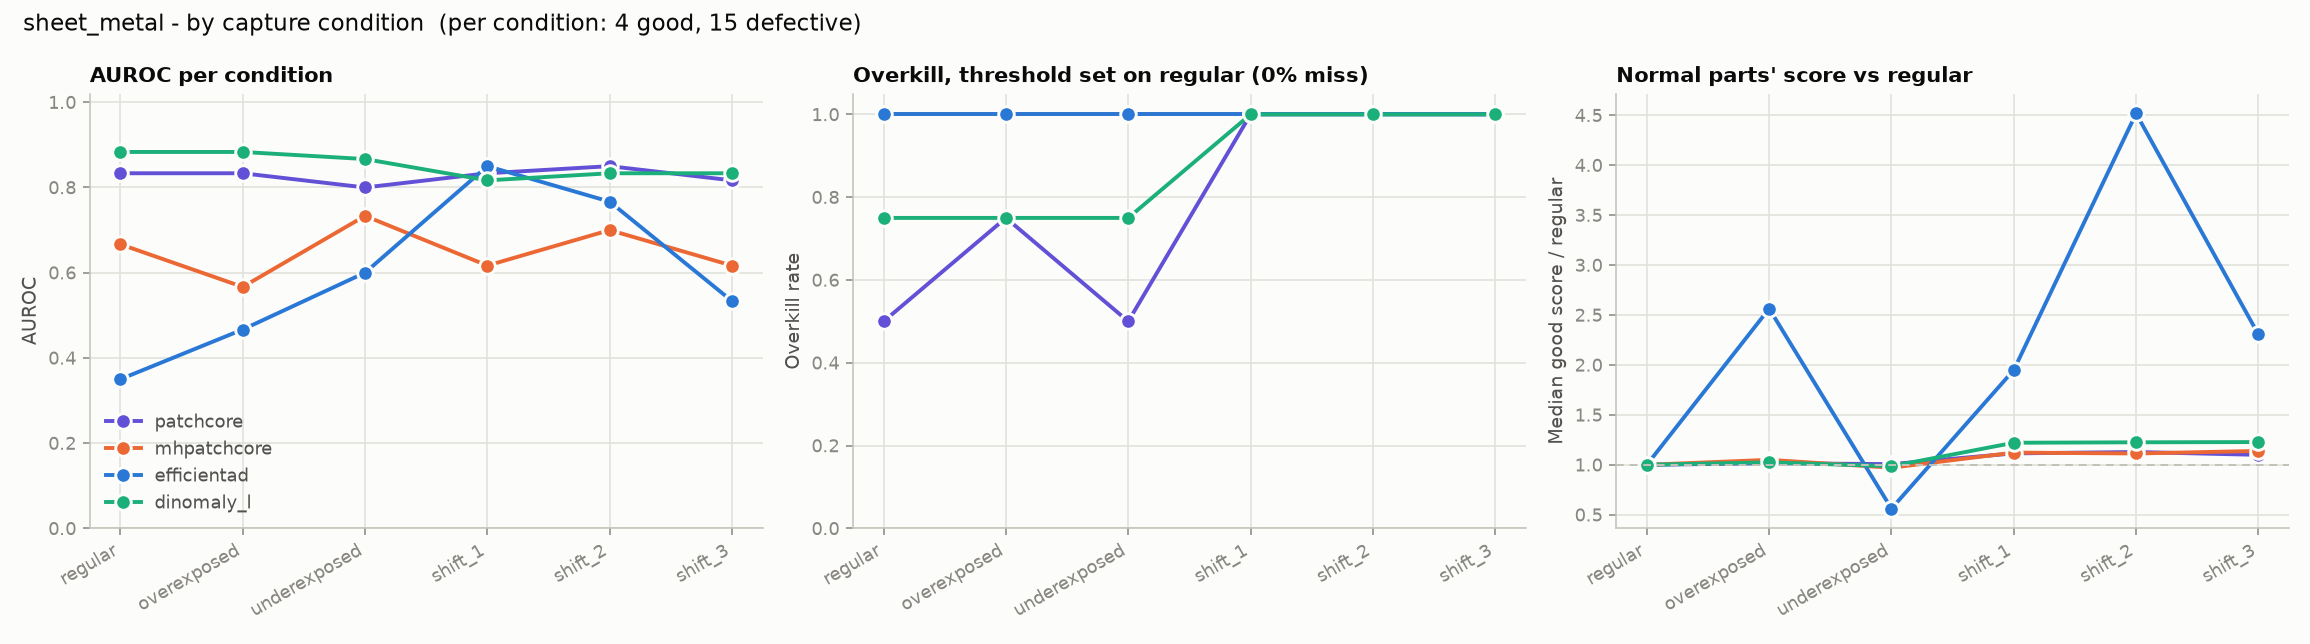
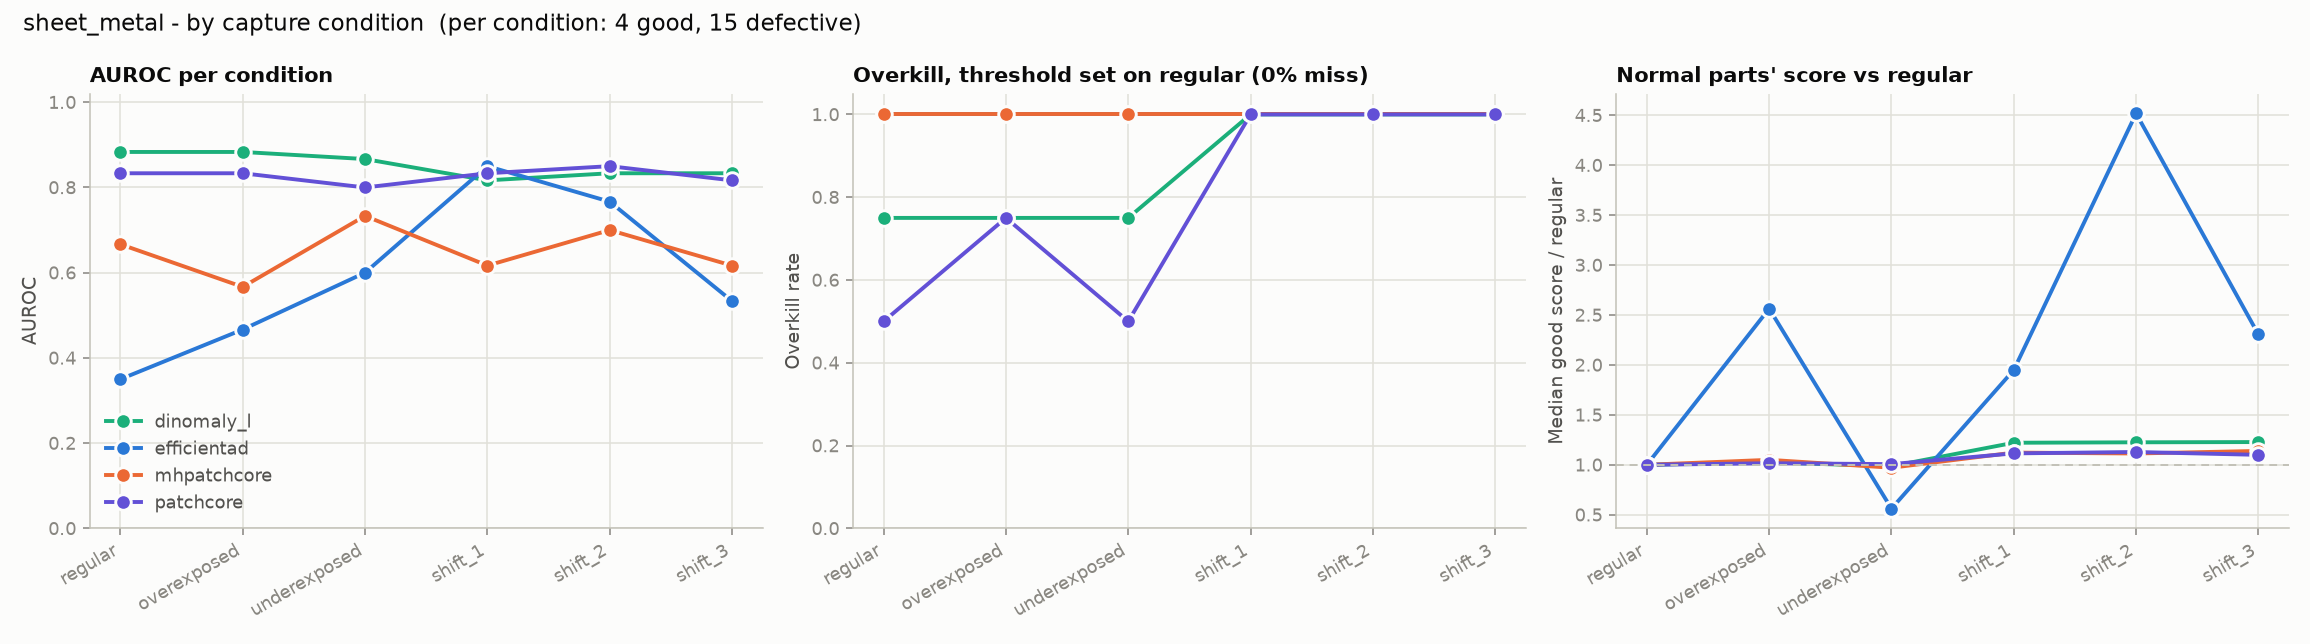
Report 8-category results for PatchCore, MH-PatchCore and Dinomaly-L
evaluate.py also draws an all-category summary figure. README and experiment_log gain the
per-category table, the per-condition findings across categories, and the caveats (image-level
split is optimistic because test images repeat 15 defective parts; single seed).

diff --git a/src/industrial_inspection/plots.py b/src/industrial_inspection/plots.py
@@ -227,3 +227,32 @@ def data_profile_figure(table: pd.DataFrame, defects: pd.DataFrame, out: Path | 
 # Fixed category -> slot, so a category keeps its colour across figures.
 CATEGORY_SLOT = {c: i for i, c in enumerate(
     ["can", "fabric", "fruit_jelly", "rice", "sheet_metal", "vial", "wallplugs", "walnuts"])}
+
+
+def summary_figure(report: pd.DataFrame, out: Path | None = None) -> Path:
+    """AUROC and overkill at a 0 % miss budget for every (category, model), one row per category."""
+    r0 = report[report.miss_budget == 0.0]
+    order = r0.groupby("category").auroc.mean().sort_values().index.tolist()
+    models = [m for m in MODEL_SLOT if m in set(r0.model)]
+    fig, (a1, a2) = _figure(2, 14, 0.55 * len(order) + 2.2)
+    offsets = np.linspace(-0.22, 0.22, len(models)) if len(models) > 1 else [0.0]
+    for ax, col, xlabel, title, ref in (
+        (a1, "auroc", "AUROC", "AUROC per category", 0.5),
+        (a2, "heldout_overkill", "Overkill rate at 0 % miss (held-out)", "Overkill per category", None),
+    ):
+        for off, model in zip(offsets, models):
+            rep = r0[r0.model == model].set_index("category").reindex(order)
+            ax.scatter(rep[col], np.arange(len(order)) + off, s=60, color=model_color(model), edgecolors=SURFACE,
+                       linewidths=1.2, label=model, zorder=3)
+        if ref is not None:
+            ax.axvline(ref, color=AXIS, linewidth=1, linestyle=(0, (4, 3)))
+            ax.annotate("chance", (ref, len(order) - 0.5), xytext=(4, 0), textcoords="offset points", color=MUTED,
+                        fontsize=9, va="center")
+        ax.set_yticks(range(len(order)), order)
+        ax.set_ylim(-0.6, len(order) - 0.4)
+        _style(ax, xlabel, "", title)
+    a1.set_xlim(0.35, 1.0)
+    a2.set_xlim(0.0, 1.05)
+    a1.legend(frameon=False, fontsize=9, loc="lower right", labelcolor=INK2)
+    fig.suptitle("MVTec AD 2 test_public - all categories", color=INK, fontsize=12, x=0.01, ha="left")
+    return _save(fig, out or Path("results/figures") / "summary__all_categories.png")

diff --git a/scripts/evaluate.py b/scripts/evaluate.py
@@ -19,7 +19,7 @@ import pandas as pd
 from sklearn.metrics import roc_auc_score
 
 from industrial_inspection.metrics import held_out_operating_point
-from industrial_inspection.plots import comparison_figure, test_figure, training_figure
+from industrial_inspection.plots import comparison_figure, summary_figure, test_figure, training_figure
 
 
 def main() -> None:
@@ -68,6 +68,8 @@ def main() -> None:
     report = pd.DataFrame(rows)
     args.out.parent.mkdir(parents=True, exist_ok=True)
     report.to_csv(args.out, index=False)
+    if report.category.nunique() > 1:
+        print("figure:", summary_figure(report))
     with pd.option_context("display.width", 200, "display.float_format", "{:.3f}".format):
         print(report.to_string(index=False))
 

diff --git a/README.md b/README.md
@@ -102,6 +102,46 @@ uv run python scripts/evaluate.py results/scores/*.csv
 - **EfficientAD는 점수 자체가 조건에 따라 크게 움직입니다.** 정상 점수가 overexposed에서 2.6배, underexposed에서 0.56배, shift_2에서 4.5배가 됩니다. 한 조건에서 정한 임계값을 다른 조건에 쓸 수 없는 수준입니다. 한 조건 안에서 보더라도 AUROC가 0.35(`regular`, 우연보다 낮음)에서 0.85까지 흔들립니다. 전체 AUROC 0.573의 낮은 값이 이 불안정성과 관련이 있어 보이지만, 인과는 확인하지 않았습니다.
 - 한계: 한 카테고리, 단일 실행, 조건당 정상 4장입니다. `shift_1~3`이 정확히 어떤 변화인지는 확인하지 않았으며, 위 "shift"는 파일명 그대로의 이름입니다. 8개 카테고리 전체에서 같은 경향인지 봐야 합니다.
 
+## 8개 카테고리 결과 (2026-10-30, RTX 5060 Ti)
+
+PatchCore, MH-PatchCore, Dinomaly-L을 8개 카테고리 전부에서 돌렸습니다(seed 0, 단일 실행). Dinomaly-L은 `--game-mode`(GPU 약 60%)로 학습해서 학습 시간은 카테고리당 약 49~53분이었습니다. EfficientAD는 sheet_metal만 있습니다.
+
+| 카테고리 | 결함 크기 (256px 기준) | PatchCore | MH-PatchCore | Dinomaly-L |
+|---|---|---|---|---|
+| can | 1.9px | 0.460 | 0.502 | 0.503 |
+| fabric | 2.8px | **0.716** | 0.440 | 0.698 |
+| wallplugs | 5.0px | 0.532 | **0.537** | 0.457 |
+| rice | 8.6px | 0.526 | 0.560 | **0.769** |
+| sheet_metal | 12.7px | 0.739 | 0.629 | **0.840** |
+| fruit_jelly | 16.1px | 0.759 | **0.912** | 0.870 |
+| vial | 26.5px | 0.859 | **0.897** | 0.810 |
+| walnuts | 28.3px | 0.840 | **0.852** | 0.715 |
+| **평균 AUROC** | | 0.679 | 0.666 | **0.708** |
+| 평균 과검률 @ 미검 0% | | 0.88 | **0.82** | 0.84 |
+| 평균 과검률 @ 미검 5% | | 0.84 | 0.76 | **0.75** |
+
+![all categories](docs/figures/summary__all_categories.png)
+
+- **어느 모델도 라인 투입 기준에 못 미칩니다.** 미검 0%에서 평균 과검률이 0.82~0.88입니다. 가장 좋은 조합(vial + MH-PatchCore)도 정상의 17%를 불량으로 판정합니다.
+- **모든 카테고리에서 이기는 모델은 없습니다.** 평균 AUROC는 Dinomaly-L이 가장 높지만(0.708), 카테고리별 1위는 MH-PatchCore 3개(fruit_jelly, vial, walnuts), Dinomaly-L 2개(rice, sheet_metal), PatchCore 1개(fabric)이고, can과 wallplugs는 셋 다 우연 수준이라 1위를 가릴 수 없습니다.
+- **결함이 작은 카테고리는 모델과 상관없이 우연 수준입니다.** can(1.9px)과 wallplugs(5.0px)는 세 모델 모두 AUROC 0.46~0.54입니다. 결함 크기와 AUROC의 순위 상관은 PatchCore 계열에서 ρ=0.88(p=0.004)입니다(`scripts/data_profile.py`).
+- **Dinomaly-L은 rice에서 PatchCore 계열보다 0.2 이상 높습니다**(0.769 vs 0.53~0.56). 입력 해상도(392 vs 224)가 커서 같은 결함이 더 크게 보이는 것이 이유일 수 있지만 검증하지 않았습니다.
+- **Dinomaly-L은 학습할수록 test AUROC가 떨어지는 카테고리가 있습니다.** vial은 500 스텝 0.877에서 최종 0.810, walnuts는 0.783에서 0.715입니다. EfficientAD가 sheet_metal에서 보인 양상과 비슷합니다.
+
+### 촬영 조건별로 보면
+
+임계값을 `regular` 이미지로만 정하고 다른 조건에 그대로 적용했습니다(`scripts/tag_analysis.py`, 그래프는 `docs/figures/tags__<카테고리>.png`).
+
+- **조건이 바뀌면 깨지는 쪽은 과검입니다.** 24개 (모델, 카테고리) 조합 중 11개에서 `shift_*` 조건의 과검률이 `regular`보다 올라갔고, 9개는 `regular`에서 이미 0.95 이상입니다. 반면 `shift_*`에서 미검률은 평균 1.6%로 거의 늘지 않습니다.
+- **Dinomaly-L은 보통 조명에서 가장 강하지만 `shift` 조건에 가장 민감합니다.** walnuts는 `regular`에서 AUROC 0.95인데 `shift_1`, `shift_3`에서 0.46, 0.50이고 정상 점수가 최대 2.8배로 뜁니다. wallplugs도 정상 점수가 최대 2.4배까지 움직입니다. PatchCore 계열은 정상 점수 변동이 대부분 30% 이내입니다.
+- 평균 AUROC는 `regular` 0.72에서 `shift_*` 0.70으로 크게 떨어지지 않지만, 고정 임계값으로 보면 과검이 크게 늘어납니다. 순위는 유지돼도 점수의 절대 위치가 움직이기 때문입니다.
+
+### 해석할 때 주의할 점
+
+- **과검률은 낙관적일 수 있습니다.** test의 불량 이미지는 실제로는 카테고리당 불량 부품 15개를 조건만 바꿔 찍은 것이고, 정상도 부품 4~12개입니다. `evaluate.py`는 이미지 단위로 반을 나누므로 같은 부품이 임계값을 정하는 쪽과 평가하는 쪽에 함께 들어갑니다. 부품 단위 분할로 고쳐야 합니다.
+- seed 0 단일 실행이고 독립 표본이 적어서, 모델 간 0.05 정도의 차이는 우연일 수 있습니다.
+- sheet_metal을 다른 머신(RTX 3050, cu126)에서 다시 돌리면 AUROC가 최대 약 0.03 달라졌습니다(PatchCore 0.712 vs 0.739). 머신 간 차이도 이 정도는 있습니다.
+
 ## 알려진 함정
 
 - **경로에 비ASCII 문자가 있으면 anomalib이 거부합니다.** 경로 검증이 절대 경로로 바꾸기 전 문자열에 대해 이뤄지므로, 데이터 경로는 레포 기준 상대 경로로 넘기세요.
@@ -111,8 +151,8 @@ uv run python scripts/evaluate.py results/scores/*.csv
 ## 로드맵
 
 1. [x] 평가 모듈 (운영점, held-out 분할, 층화 부트스트랩)
-2. [ ] 8개 카테고리 × EfficientAD / MH-PatchCore / Dinomaly 베이스라인 (**보류**: 시간이 너무 오래 걸려 중단. `scripts/sweep.sh`로 재개 가능하고, 모델 3종(EfficientAD 제외) 기준 약 6시간, EfficientAD까지 넣으면 약 14시간 예상. sheet_metal 4종 검증 완료, 위 "베이스라인 실험" 참고. 이 카테고리 최고는 Dinomaly-L AUROC 0.84 — AD 2는 원래 SOTA도 AU-PRO 60% 미만인 어려운 벤치마크)
+2. [~] 8개 카테고리 베이스라인: PatchCore, MH-PatchCore, Dinomaly-L은 8/8 완료(위 "8개 카테고리 결과"). EfficientAD는 sheet_metal만 있음(카테고리당 약 1~2시간)
 3. [ ] 소수 불량 보정에서 임계값이 과적합되는 문제 (마진, conformal 보정 비교)
-4. [~] 조명 시프트 강건성: sheet_metal 4개 모델 조건별 분석 완료(`scripts/tag_analysis.py`, 위 "촬영 조건별 분석"). 8개 카테고리로 확장 예정
+4. [~] 조명 시프트 강건성: 8개 카테고리 × 3개 모델 조건별 분석 완료(`scripts/tag_analysis.py`). 학습 데이터에 조명 변화를 넣거나 조건별 임계값을 쓰는 대응은 아직
 5. [ ] ONNX/TensorRT 변환, 지연시간과 정확도 트레이드오프
 6. [ ] (선택) VLM 기반 불량 유형 설명
